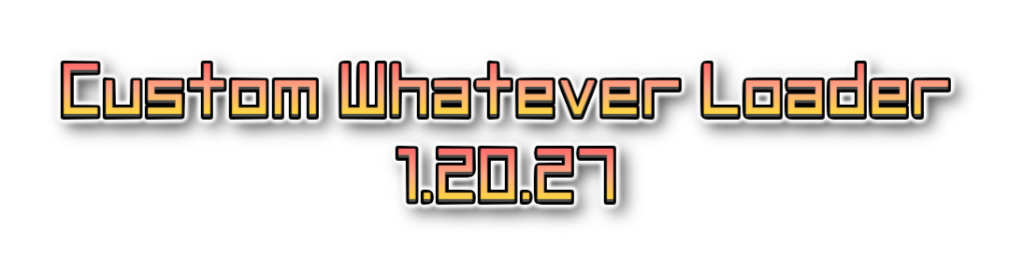
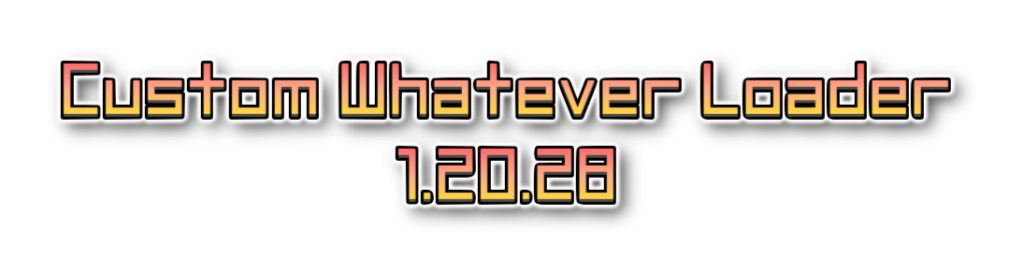
feat(CWL): support forcing `noCopy` tag on thing creation

Changed region(s): [[0.5625, 0.5448, 0.625, 0.8029]]

diff --git a/CustomWhateverLoader/Patches/Recipes/ForceRarityPatch.cs b/CustomWhateverLoader/Patches/Recipes/ForceRarityPatch.cs
@@ -1,21 +1,11 @@
-using System.Collections.Generic;
-using System.Reflection;
-using Cwl.Helper.Runtime;
-using HarmonyLib;
+using Cwl.API.Attributes;
 
 namespace Cwl.Patches.Recipes;
 
-[HarmonyPatch]
 internal class ForceRarityPatch
 {
-    internal static IEnumerable<MethodBase> TargetMethods()
-    {
-        return OverrideMethodComparer.FindAllOverrides(typeof(Card), nameof(Card.OnCreate), typeof(int));
-    }
-
-    [SwallowExceptions]
-    [HarmonyPrefix]
-    internal static void OnResetRarity(Card __instance)
+    [CwlThingOnCreateEvent]
+    internal static void OnResetRarity(Thing __instance)
     {
         var row = __instance.sourceCard;
         if (row is null) {

diff --git a/CustomWhateverLoader/Patches/Recipes/ForcePurityPatch.cs b/CustomWhateverLoader/Patches/Recipes/ForcePurityPatch.cs
@@ -1,0 +1,21 @@
+using System.Linq;
+using Cwl.API.Attributes;
+using Cwl.Helper.Unity;
+
+namespace Cwl.Patches.Recipes;
+
+internal class ForcePurityPatch
+{
+    [CwlThingOnCreateEvent]
+    internal static void OnResetPurity(Thing __instance)
+    {
+        var row = __instance.source;
+        if (row is null) {
+            return;
+        }
+
+        if (row.tag.Contains("noCopy") && row.elements.Contains(ELEMENT.purity)) {
+            CoroutineHelper.Deferred(() => __instance.elements.SetBase(ELEMENT.purity, 10));
+        }
+    }
+}

diff --git a/CustomWhateverLoader/Loader/CustomWhateverLoader.cs b/CustomWhateverLoader/Loader/CustomWhateverLoader.cs
@@ -9,7 +9,7 @@ public static class ModInfo
     // for legacy reason
     public const string Guid = "dk.elinplugins.customdialogloader";
     public const string Name = "Custom Whatever Loader";
-    public const string Version = "1.20.27";
+    public const string Version = "1.20.28";
 }
 
 [BepInPlugin(ModInfo.Guid, ModInfo.Name, ModInfo.Version)]
